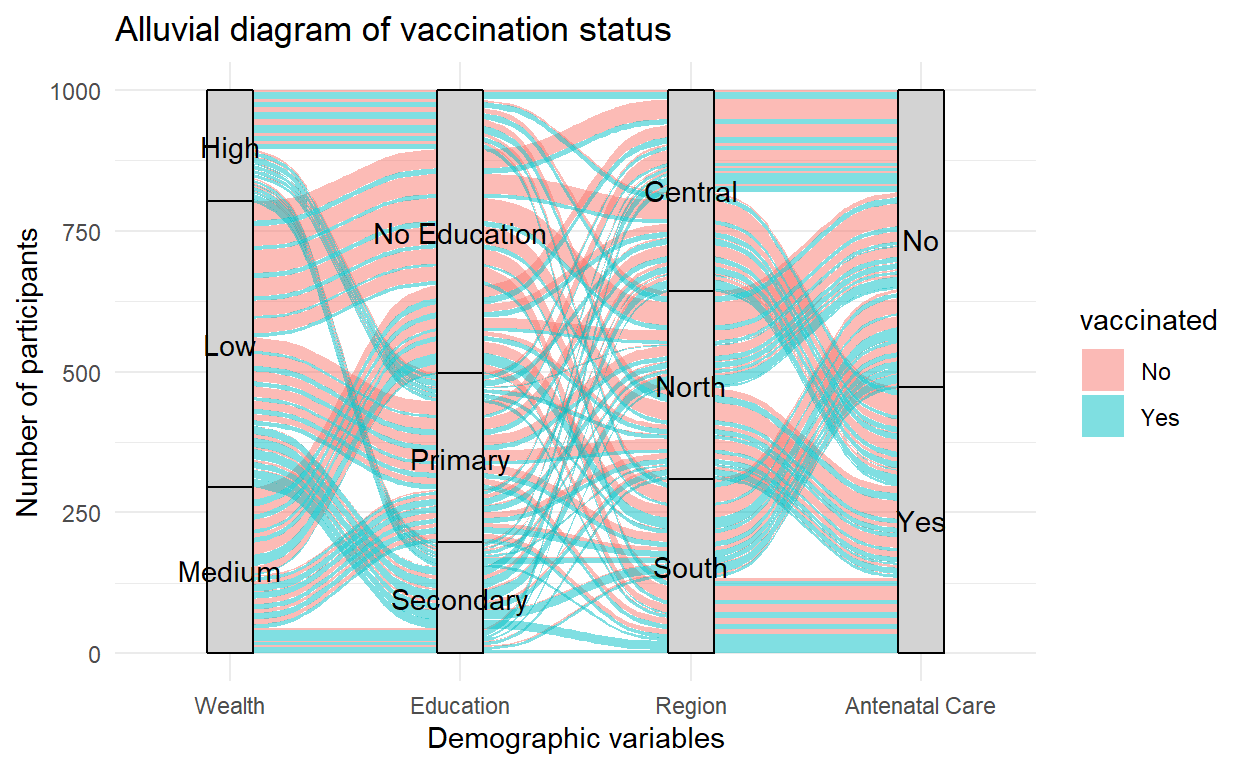
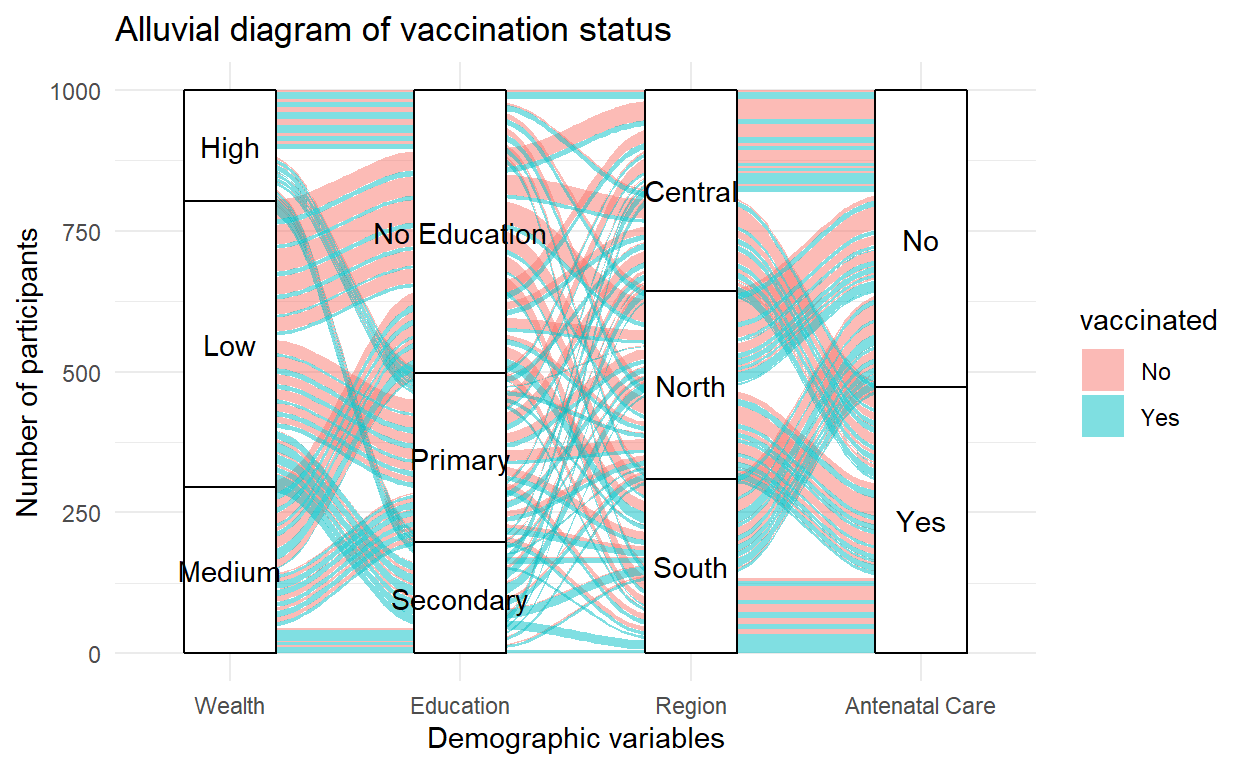
update blog

diff --git a/_posts/2024-10-05-creating-an-alluvial-plot-with-r/creating-an-alluvial-plot-with-r.html b/_posts/2024-10-05-creating-an-alluvial-plot-with-r/creating-an-alluvial-plot-with-r.html
@@ -93,8 +93,8 @@ code span.wa { color: #5e5e5e; font-style: italic; } /* Warning */
 
 
   <!--  https://schema.org/Article -->
-  <meta property="article:published" itemprop="datePublished" content="2024-06-25"/>
-  <meta property="article:created" itemprop="dateCreated" content="2024-06-25"/>
+  <meta property="article:published" itemprop="datePublished" content="2024-10-05"/>
+  <meta property="article:created" itemprop="dateCreated" content="2024-10-05"/>
   <meta name="article:author" content="Lisa Hefele"/>
 
   <!--  https://developers.facebook.com/docs/sharing/webmasters#markup -->
@@ -110,7 +110,7 @@ code span.wa { color: #5e5e5e; font-style: italic; } /* Warning */
   <!--radix_placeholder_rmarkdown_metadata-->
 
   <script type="text/json" id="radix-rmarkdown-metadata">
-  {"type":"list","attributes":{"names":{"type":"character","attributes":{},"value":["title","author","date","categories","output"]}},"value":[{"type":"character","attributes":{},"value":["Creating an alluvial plot with R"]},{"type":"list","attributes":{},"value":[{"type":"list","attributes":{"names":{"type":"character","attributes":{},"value":["name","url"]}},"value":[{"type":"character","attributes":{},"value":["Lisa Hefele"]},{"type":"list","attributes":{"names":{"type":"character","attributes":{},"value":[]}},"value":[]}]}]},{"type":"character","attributes":{},"value":["2024-06-25"]},{"type":"character","attributes":{},"value":["Data visualization"]},{"type":"list","attributes":{"names":{"type":"character","attributes":{},"value":["distill::distill_article"]}},"value":[{"type":"list","attributes":{"names":{"type":"character","attributes":{},"value":["self_contained"]}},"value":[{"type":"logical","attributes":{},"value":[false]}]}]}]}
+  {"type":"list","attributes":{"names":{"type":"character","attributes":{},"value":["title","author","date","categories","output"]}},"value":[{"type":"character","attributes":{},"value":["Creating an alluvial plot with R"]},{"type":"list","attributes":{},"value":[{"type":"list","attributes":{"names":{"type":"character","attributes":{},"value":["name","url"]}},"value":[{"type":"character","attributes":{},"value":["Lisa Hefele"]},{"type":"list","attributes":{"names":{"type":"character","attributes":{},"value":[]}},"value":[]}]}]},{"type":"character","attributes":{},"value":["2024-10-05"]},{"type":"character","attributes":{},"value":["Data visualization"]},{"type":"list","attributes":{"names":{"type":"character","attributes":{},"value":["distill::distill_article"]}},"value":[{"type":"list","attributes":{"names":{"type":"character","attributes":{},"value":["self_contained"]}},"value":[{"type":"logical","attributes":{},"value":[false]}]}]}]}
   </script>
   <!--/radix_placeholder_rmarkdown_metadata-->
   
@@ -1518,7 +1518,7 @@ code span.wa { color: #5e5e5e; font-style: italic; } /* Warning */
 <!--radix_placeholder_front_matter-->
 
 <script id="distill-front-matter" type="text/json">
-{"title":"Creating an alluvial plot with R","authors":[{"author":"Lisa Hefele","authorURL":{},"affiliation":"&nbsp;","affiliationURL":"#","orcidID":""}],"publishedDate":"2024-06-25T00:00:00.000+02:00","citationText":"Hefele, 2024"}
+{"title":"Creating an alluvial plot with R","authors":[{"author":"Lisa Hefele","authorURL":{},"affiliation":"&nbsp;","affiliationURL":"#","orcidID":""}],"publishedDate":"2024-10-05T00:00:00.000+02:00","citationText":"Hefele, 2024"}
 </script>
 
 <!--/radix_placeholder_front_matter-->
@@ -1541,7 +1541,7 @@ code span.wa { color: #5e5e5e; font-style: italic; } /* Warning */
 <div class="d-byline">
   Lisa Hefele true 
   
-<br/>2024-06-25
+<br/>2024-10-05
 </div>
 
 <div class="d-article">
@@ -1554,7 +1554,7 @@ code span.wa { color: #5e5e5e; font-style: italic; } /* Warning */
 </div>
 </div>
 <h2 id="step-2-create-a-fictional-dataset">Step 2: Create a fictional dataset</h2>
-<p>This dataset now reflects a situation where participants from lower wealth and less educated backgrounds are less likely to be vaccinated. It is completely fictional.</p>
+<p>This dataset reflects a situation where participants from lower wealth and less educated backgrounds are less likely to be vaccinated. It is completely fictional.</p>
 <div class="layout-chunk" data-layout="l-body">
 <div class="sourceCode">
 <pre class="sourceCode r"><code class="sourceCode r"><span><span class='fu'><a href='https://rdrr.io/r/base/Random.html'>set.seed</a></span><span class='op'>(</span><span class='fl'>123</span><span class='op'>)</span>  <span class='co'># For reproducibility</span></span>
@@ -1626,7 +1626,7 @@ code span.wa { color: #5e5e5e; font-style: italic; } /* Warning */
 <span><span class='va'>df_alluvial</span> <span class='op'><a href='https://magrittr.tidyverse.org/reference/pipe.html'>%&gt;%</a></span> </span>
 <span>  <span class='fu'><a href='https://ggplot2.tidyverse.org/reference/ggplot.html'>ggplot</a></span><span class='op'>(</span><span class='fu'><a href='https://ggplot2.tidyverse.org/reference/aes.html'>aes</a></span><span class='op'>(</span>axis1 <span class='op'>=</span> <span class='va'>wealth</span>, axis2 <span class='op'>=</span> <span class='va'>education</span>, axis3 <span class='op'>=</span> <span class='va'>region</span>, axis4 <span class='op'>=</span> <span class='va'>antenatal_care</span>, y <span class='op'>=</span> <span class='va'>n</span><span class='op'>)</span><span class='op'>)</span> <span class='op'>+</span></span>
 <span>  <span class='fu'><a href='http://corybrunson.github.io/ggalluvial/reference/geom_alluvium.html'>geom_alluvium</a></span><span class='op'>(</span><span class='fu'><a href='https://ggplot2.tidyverse.org/reference/aes.html'>aes</a></span><span class='op'>(</span>fill <span class='op'>=</span> <span class='va'>vaccinated</span><span class='op'>)</span>, width <span class='op'>=</span> <span class='fl'>0.2</span><span class='op'>)</span> <span class='op'>+</span>  <span class='co'># Moved 'fill' inside aes()</span></span>
-<span>  <span class='fu'><a href='http://corybrunson.github.io/ggalluvial/reference/geom_stratum.html'>geom_stratum</a></span><span class='op'>(</span>width <span class='op'>=</span> <span class='fl'>0.2</span>, fill <span class='op'>=</span> <span class='st'>"lightgrey"</span>, color <span class='op'>=</span> <span class='st'>"black"</span><span class='op'>)</span> <span class='op'>+</span></span>
+<span>  <span class='fu'><a href='http://corybrunson.github.io/ggalluvial/reference/geom_stratum.html'>geom_stratum</a></span><span class='op'>(</span>width <span class='op'>=</span> <span class='fl'>0.4</span>, fill <span class='op'>=</span> <span class='st'>"white"</span>, color <span class='op'>=</span> <span class='st'>"black"</span><span class='op'>)</span> <span class='op'>+</span></span>
 <span>  <span class='fu'><a href='https://ggplot2.tidyverse.org/reference/geom_text.html'>geom_text</a></span><span class='op'>(</span>stat <span class='op'>=</span> <span class='st'>"stratum"</span>, <span class='fu'><a href='https://ggplot2.tidyverse.org/reference/aes.html'>aes</a></span><span class='op'>(</span>label <span class='op'>=</span> <span class='fu'><a href='https://ggplot2.tidyverse.org/reference/aes_eval.html'>after_stat</a></span><span class='op'>(</span><span class='va'>stratum</span><span class='op'>)</span><span class='op'>)</span><span class='op'>)</span> <span class='op'>+</span></span>
 <span>  <span class='fu'><a href='https://ggplot2.tidyverse.org/reference/scale_discrete.html'>scale_x_discrete</a></span><span class='op'>(</span>limits <span class='op'>=</span> <span class='fu'><a href='https://rdrr.io/r/base/c.html'>c</a></span><span class='op'>(</span><span class='st'>"Wealth"</span>, <span class='st'>"Education"</span>, <span class='st'>"Region"</span>, <span class='st'>"Antenatal Care"</span><span class='op'>)</span>, expand <span class='op'>=</span> <span class='fu'><a href='https://rdrr.io/r/base/c.html'>c</a></span><span class='op'>(</span><span class='fl'>0.15</span>, <span class='fl'>0.05</span><span class='op'>)</span><span class='op'>)</span> <span class='op'>+</span></span>
 <span>  <span class='fu'><a href='https://ggplot2.tidyverse.org/reference/labs.html'>labs</a></span><span class='op'>(</span>title <span class='op'>=</span> <span class='st'>"Alluvial diagram of vaccination status"</span>,</span>

diff --git a/_site/posts/2024-10-05-creating-an-alluvial-plot-with-r/index.html b/_site/posts/2024-10-05-creating-an-alluvial-plot-with-r/index.html
@@ -93,8 +93,8 @@ code span.wa { color: #5e5e5e; font-style: italic; } /* Warning */
 
 
 <!--  https://schema.org/Article -->
-<meta property="article:published" itemprop="datePublished" content="2024-06-25"/>
-<meta property="article:created" itemprop="dateCreated" content="2024-06-25"/>
+<meta property="article:published" itemprop="datePublished" content="2024-10-05"/>
+<meta property="article:created" itemprop="dateCreated" content="2024-10-05"/>
 <meta name="article:author" content="Lisa Hefele"/>
 
 <!--  https://developers.facebook.com/docs/sharing/webmasters#markup -->
@@ -111,7 +111,7 @@ code span.wa { color: #5e5e5e; font-style: italic; } /* Warning */
   <!--radix_placeholder_rmarkdown_metadata-->
 
 <script type="text/json" id="radix-rmarkdown-metadata">
-{"type":"list","attributes":{"names":{"type":"character","attributes":{},"value":["title","author","date","categories","output"]}},"value":[{"type":"character","attributes":{},"value":["Creating an alluvial plot with R"]},{"type":"list","attributes":{},"value":[{"type":"list","attributes":{"names":{"type":"character","attributes":{},"value":["name","url"]}},"value":[{"type":"character","attributes":{},"value":["Lisa Hefele"]},{"type":"list","attributes":{"names":{"type":"character","attributes":{},"value":[]}},"value":[]}]}]},{"type":"character","attributes":{},"value":["2024-06-25"]},{"type":"character","attributes":{},"value":["Data visualization"]},{"type":"list","attributes":{"names":{"type":"character","attributes":{},"value":["distill::distill_article"]}},"value":[{"type":"list","attributes":{"names":{"type":"character","attributes":{},"value":["self_contained"]}},"value":[{"type":"logical","attributes":{},"value":[false]}]}]}]}
+{"type":"list","attributes":{"names":{"type":"character","attributes":{},"value":["title","author","date","categories","output"]}},"value":[{"type":"character","attributes":{},"value":["Creating an alluvial plot with R"]},{"type":"list","attributes":{},"value":[{"type":"list","attributes":{"names":{"type":"character","attributes":{},"value":["name","url"]}},"value":[{"type":"character","attributes":{},"value":["Lisa Hefele"]},{"type":"list","attributes":{"names":{"type":"character","attributes":{},"value":[]}},"value":[]}]}]},{"type":"character","attributes":{},"value":["2024-10-05"]},{"type":"character","attributes":{},"value":["Data visualization"]},{"type":"list","attributes":{"names":{"type":"character","attributes":{},"value":["distill::distill_article"]}},"value":[{"type":"list","attributes":{"names":{"type":"character","attributes":{},"value":["self_contained"]}},"value":[{"type":"logical","attributes":{},"value":[false]}]}]}]}
 </script>
 <!--/radix_placeholder_rmarkdown_metadata-->
   
@@ -2125,7 +2125,7 @@ document.addEventListener('DOMContentLoaded', function() {
 <!--radix_placeholder_front_matter-->
 
 <script id="distill-front-matter" type="text/json">
-{"title":"Creating an alluvial plot with R","authors":[{"author":"Lisa Hefele","authorURL":{},"affiliation":"&nbsp;","affiliationURL":"#","orcidID":""}],"publishedDate":"2024-06-25T00:00:00.000+02:00","citationText":"Hefele, 2024"}
+{"title":"Creating an alluvial plot with R","authors":[{"author":"Lisa Hefele","authorURL":{},"affiliation":"&nbsp;","affiliationURL":"#","orcidID":""}],"publishedDate":"2024-10-05T00:00:00.000+02:00","citationText":"Hefele, 2024"}
 </script>
 
 <!--/radix_placeholder_front_matter-->
@@ -2161,7 +2161,7 @@ document.addEventListener('DOMContentLoaded', function() {
 <div class="d-byline">
   Lisa Hefele true 
   
-<br/>2024-06-25
+<br/>2024-10-05
 </div>
 
 <div class="d-article">
@@ -2174,7 +2174,7 @@ document.addEventListener('DOMContentLoaded', function() {
 </div>
 </div>
 <h2 id="step-2-create-a-fictional-dataset">Step 2: Create a fictional dataset</h2>
-<p>This dataset now reflects a situation where participants from lower wealth and less educated backgrounds are less likely to be vaccinated. It is completely fictional.</p>
+<p>This dataset reflects a situation where participants from lower wealth and less educated backgrounds are less likely to be vaccinated. It is completely fictional.</p>
 <div class="layout-chunk" data-layout="l-body">
 <div class="sourceCode">
 <pre class="sourceCode r"><code class="sourceCode r"><span><span class='fu'><a href='https://rdrr.io/r/base/Random.html'>set.seed</a></span><span class='op'>(</span><span class='fl'>123</span><span class='op'>)</span>  <span class='co'># For reproducibility</span></span>
@@ -2246,7 +2246,7 @@ document.addEventListener('DOMContentLoaded', function() {
 <span><span class='va'>df_alluvial</span> <span class='op'><a href='https://magrittr.tidyverse.org/reference/pipe.html'>%&gt;%</a></span> </span>
 <span>  <span class='fu'><a href='https://ggplot2.tidyverse.org/reference/ggplot.html'>ggplot</a></span><span class='op'>(</span><span class='fu'><a href='https://ggplot2.tidyverse.org/reference/aes.html'>aes</a></span><span class='op'>(</span>axis1 <span class='op'>=</span> <span class='va'>wealth</span>, axis2 <span class='op'>=</span> <span class='va'>education</span>, axis3 <span class='op'>=</span> <span class='va'>region</span>, axis4 <span class='op'>=</span> <span class='va'>antenatal_care</span>, y <span class='op'>=</span> <span class='va'>n</span><span class='op'>)</span><span class='op'>)</span> <span class='op'>+</span></span>
 <span>  <span class='fu'><a href='http://corybrunson.github.io/ggalluvial/reference/geom_alluvium.html'>geom_alluvium</a></span><span class='op'>(</span><span class='fu'><a href='https://ggplot2.tidyverse.org/reference/aes.html'>aes</a></span><span class='op'>(</span>fill <span class='op'>=</span> <span class='va'>vaccinated</span><span class='op'>)</span>, width <span class='op'>=</span> <span class='fl'>0.2</span><span class='op'>)</span> <span class='op'>+</span>  <span class='co'># Moved 'fill' inside aes()</span></span>
-<span>  <span class='fu'><a href='http://corybrunson.github.io/ggalluvial/reference/geom_stratum.html'>geom_stratum</a></span><span class='op'>(</span>width <span class='op'>=</span> <span class='fl'>0.2</span>, fill <span class='op'>=</span> <span class='st'>"lightgrey"</span>, color <span class='op'>=</span> <span class='st'>"black"</span><span class='op'>)</span> <span class='op'>+</span></span>
+<span>  <span class='fu'><a href='http://corybrunson.github.io/ggalluvial/reference/geom_stratum.html'>geom_stratum</a></span><span class='op'>(</span>width <span class='op'>=</span> <span class='fl'>0.4</span>, fill <span class='op'>=</span> <span class='st'>"white"</span>, color <span class='op'>=</span> <span class='st'>"black"</span><span class='op'>)</span> <span class='op'>+</span></span>
 <span>  <span class='fu'><a href='https://ggplot2.tidyverse.org/reference/geom_text.html'>geom_text</a></span><span class='op'>(</span>stat <span class='op'>=</span> <span class='st'>"stratum"</span>, <span class='fu'><a href='https://ggplot2.tidyverse.org/reference/aes.html'>aes</a></span><span class='op'>(</span>label <span class='op'>=</span> <span class='fu'><a href='https://ggplot2.tidyverse.org/reference/aes_eval.html'>after_stat</a></span><span class='op'>(</span><span class='va'>stratum</span><span class='op'>)</span><span class='op'>)</span><span class='op'>)</span> <span class='op'>+</span></span>
 <span>  <span class='fu'><a href='https://ggplot2.tidyverse.org/reference/scale_discrete.html'>scale_x_discrete</a></span><span class='op'>(</span>limits <span class='op'>=</span> <span class='fu'><a href='https://rdrr.io/r/base/c.html'>c</a></span><span class='op'>(</span><span class='st'>"Wealth"</span>, <span class='st'>"Education"</span>, <span class='st'>"Region"</span>, <span class='st'>"Antenatal Care"</span><span class='op'>)</span>, expand <span class='op'>=</span> <span class='fu'><a href='https://rdrr.io/r/base/c.html'>c</a></span><span class='op'>(</span><span class='fl'>0.15</span>, <span class='fl'>0.05</span><span class='op'>)</span><span class='op'>)</span> <span class='op'>+</span></span>
 <span>  <span class='fu'><a href='https://ggplot2.tidyverse.org/reference/labs.html'>labs</a></span><span class='op'>(</span>title <span class='op'>=</span> <span class='st'>"Alluvial diagram of vaccination status"</span>,</span>

diff --git a/_site/index.html b/_site/index.html
@@ -2273,6 +2273,25 @@ function init_posts_list() {
 <div class="posts-container posts-with-sidebar posts-apply-limit l-screen-inset">
 <div class="posts-list">
 <h1 class="posts-list-caption" data-caption="Posts">Posts</h1>
+<a href="posts/2024-10-05-creating-an-alluvial-plot-with-r/" class="post-preview">
+<script class="post-metadata" type="text/json">{"categories":["Data visualization"]}</script>
+<div class="metadata">
+<div class="publishedDate">Oct. 5, 2024</div>
+<div class="dt-authors">
+<div class="dt-author">Lisa Hefele</div>
+</div>
+</div>
+<div class="thumbnail">
+<img/>
+</div>
+<div class="description">
+<h2>Creating an alluvial plot with R</h2>
+<div class="dt-tags">
+<div class="dt-tag">Data visualization</div>
+</div>
+<p></p>
+</div>
+</a>
 <a href="posts/2024-10-13-creating-interactive-maps-in-r-with-tmap/" class="post-preview">
 <script class="post-metadata" type="text/json">{"categories":["Data visualization"]}</script>
 <div class="metadata">
@@ -2286,25 +2305,6 @@ function init_posts_list() {
 </div>
 <div class="description">
 <h2>Creating interactive maps in R with tmap</h2>
-<div class="dt-tags">
-<div class="dt-tag">Data visualization</div>
-</div>
-<p></p>
-</div>
-</a>
-<a href="posts/2024-10-05-creating-an-alluvial-plot-with-r/" class="post-preview">
-<script class="post-metadata" type="text/json">{"categories":["Data visualization"]}</script>
-<div class="metadata">
-<div class="publishedDate">June 25, 2024</div>
-<div class="dt-authors">
-<div class="dt-author">Lisa Hefele</div>
-</div>
-</div>
-<div class="thumbnail">
-<img/>
-</div>
-<div class="description">
-<h2>Creating an alluvial plot with R</h2>
 <div class="dt-tags">
 <div class="dt-tag">Data visualization</div>
 </div>
